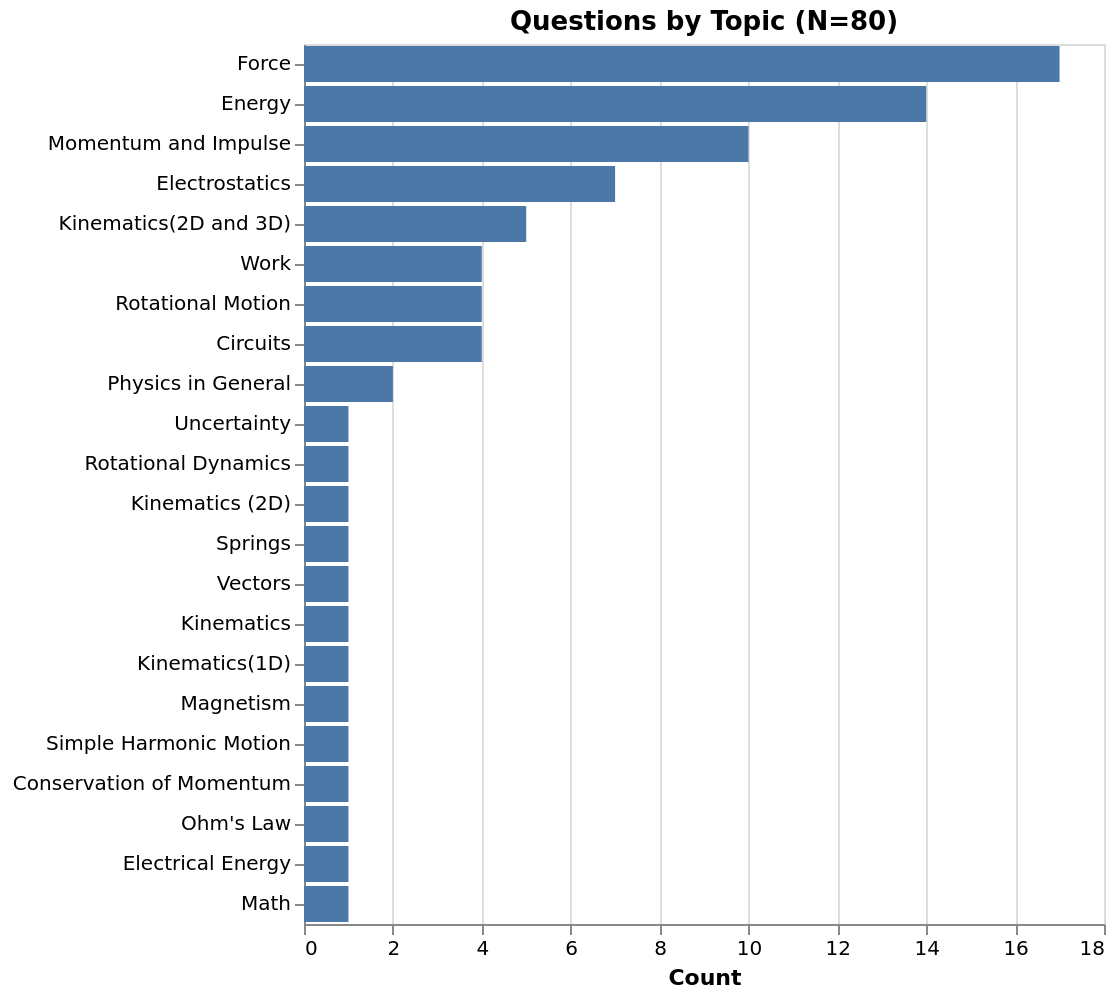
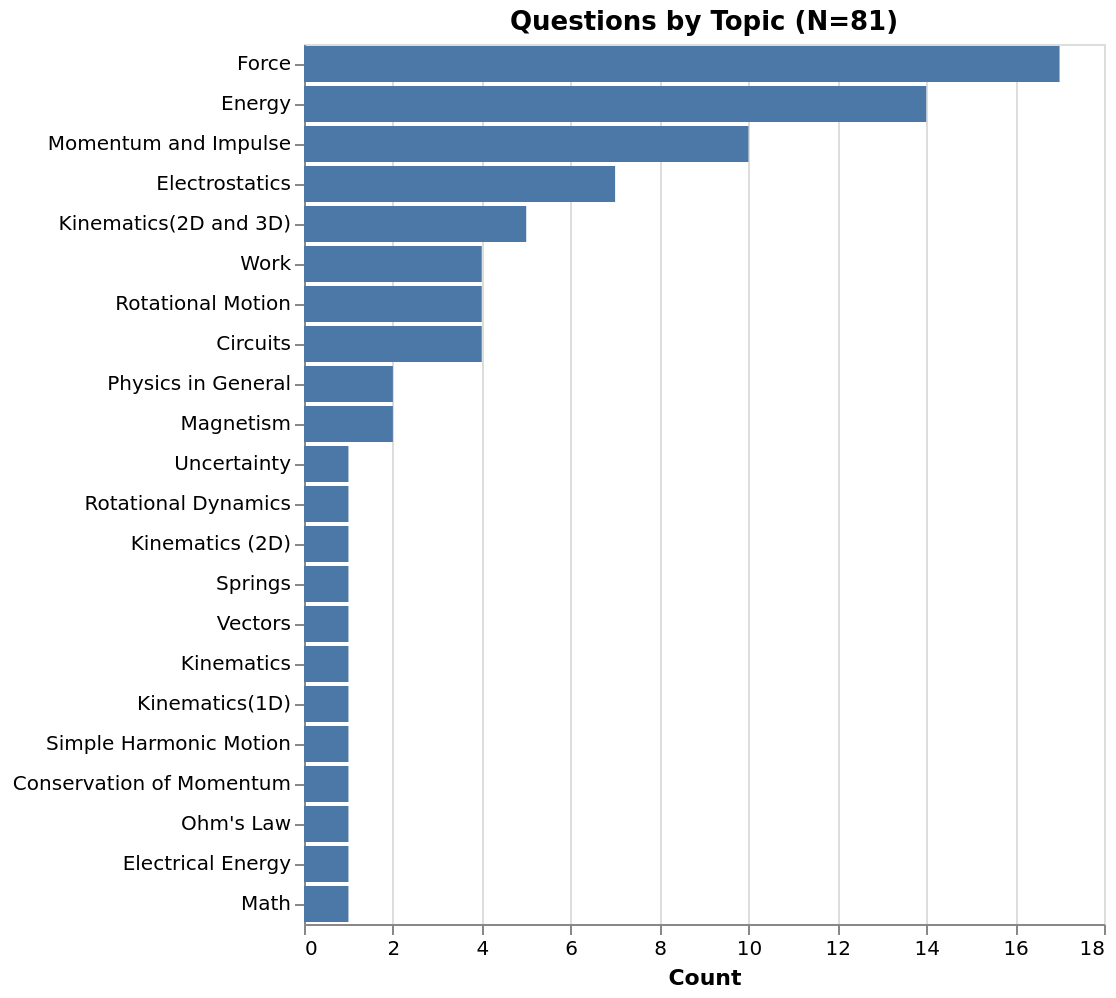
Update TOC via GH Action

diff --git a/content/index.md b/content/index.md
@@ -1,0 +1,86 @@
+# Question Index 
+ 
+ 
+ | Question | Public HTML | Public MD | Instructor MD | PL |
+| --------- | --------- | --------- | --------- | --------- |
+1 |  [Q 1](https://firas.moosvi.com/oer/physicsbank/content/content/public/002.Physics%20in%20General/Topic%20Outcome/Skateboarder%20and%20observer/Skateboarder%20and%20observer.html)| [Q 1](https://github.com/open-resources/physics_bank/blob/main/content/content/public/002.Physics%20in%20General/Topic%20Outcome/Skateboarder%20and%20observer/Skateboarder%20and%20observer.md) | [Q 1](https://github.com/open-resources/instructor_physics_bank/blob/main/output/content/instructor/002.Physics%20in%20General/Topic%20Outcome/Skateboarder%20and%20observer/Skateboarder%20and%20observer.md) | [TBD]() | 
+2 |  [Q 2](https://firas.moosvi.com/oer/physicsbank/content/content/public/002.Physics%20in%20General/Topic%20Outcome/test/test.html)| [Q 2](https://github.com/open-resources/physics_bank/blob/main/content/content/public/002.Physics%20in%20General/Topic%20Outcome/test/test.md) | [Q 2](https://github.com/open-resources/instructor_physics_bank/blob/main/output/content/instructor/002.Physics%20in%20General/Topic%20Outcome/test/test.md) | [TBD]() | 
+3 |  [Q 3](https://firas.moosvi.com/oer/physicsbank/content/content/public/002.Physics%20in%20General/Topic%20Outcome/Choose%20correct%20ans/choose%20correct%20ans.html)| [Q 3](https://github.com/open-resources/physics_bank/blob/main/content/content/public/002.Physics%20in%20General/Topic%20Outcome/Choose%20correct%20ans/choose%20correct%20ans.md) | [Q 3](https://github.com/open-resources/instructor_physics_bank/blob/main/output/content/instructor/002.Physics%20in%20General/Topic%20Outcome/Choose%20correct%20ans/choose%20correct%20ans.md) | [TBD]() | 
+4 |  [Q 4](https://firas.moosvi.com/oer/physicsbank/content/content/public/002.Physics%20in%20General/Uncertainty/Terminal%20Velocity%20of%20Coffee%20Filter/Terminal%20Velocity%20of%20Coffee%20Filter.html)| [Q 4](https://github.com/open-resources/physics_bank/blob/main/content/content/public/002.Physics%20in%20General/Uncertainty/Terminal%20Velocity%20of%20Coffee%20Filter/Terminal%20Velocity%20of%20Coffee%20Filter.md) | [Q 4](https://github.com/open-resources/instructor_physics_bank/blob/main/output/content/instructor/002.Physics%20in%20General/Uncertainty/Terminal%20Velocity%20of%20Coffee%20Filter/Terminal%20Velocity%20of%20Coffee%20Filter.md) | [TBD]() | 
+5 |  [Q 5](https://firas.moosvi.com/oer/physicsbank/content/content/public/002.Physics%20in%20General/Uncertainty/projectile_uncertainty/projectile_uncertainty.html)| [Q 5](https://github.com/open-resources/physics_bank/blob/main/content/content/public/002.Physics%20in%20General/Uncertainty/projectile_uncertainty/projectile_uncertainty.md) | [Q 5](https://github.com/open-resources/instructor_physics_bank/blob/main/output/content/instructor/002.Physics%20in%20General/Uncertainty/projectile_uncertainty/projectile_uncertainty.md) | [TBD]() | 
+6 |  [Q 6](https://firas.moosvi.com/oer/physicsbank/content/content/public/008.Energy/Kinetic%20Energy/KE_testmass/KE_testmass.html)| [Q 6](https://github.com/open-resources/physics_bank/blob/main/content/content/public/008.Energy/Kinetic%20Energy/KE_testmass/KE_testmass.md) | [Q 6](https://github.com/open-resources/instructor_physics_bank/blob/main/output/content/instructor/008.Energy/Kinetic%20Energy/KE_testmass/KE_testmass.md) | [TBD]() | 
+7 |  [Q 7](https://firas.moosvi.com/oer/physicsbank/content/content/public/008.Energy/Kinetic%20Energy/KE_energy_momentum/KE_energy_momentum.html)| [Q 7](https://github.com/open-resources/physics_bank/blob/main/content/content/public/008.Energy/Kinetic%20Energy/KE_energy_momentum/KE_energy_momentum.md) | [Q 7](https://github.com/open-resources/instructor_physics_bank/blob/main/output/content/instructor/008.Energy/Kinetic%20Energy/KE_energy_momentum/KE_energy_momentum.md) | [TBD]() | 
+8 |  [Q 8](https://firas.moosvi.com/oer/physicsbank/content/content/public/008.Energy/Potential%20Energy/Collision%20of%20cart%20with%20spring/Collision%20of%20cart%20with%20spring.html)| [Q 8](https://github.com/open-resources/physics_bank/blob/main/content/content/public/008.Energy/Potential%20Energy/Collision%20of%20cart%20with%20spring/Collision%20of%20cart%20with%20spring.md) | [Q 8](https://github.com/open-resources/instructor_physics_bank/blob/main/output/content/instructor/008.Energy/Potential%20Energy/Collision%20of%20cart%20with%20spring/Collision%20of%20cart%20with%20spring.md) | [TBD]() | 
+9 |  [Q 9](https://firas.moosvi.com/oer/physicsbank/content/content/public/008.Energy/Topic%20Outcome/force_vs_position/force_vs_position.html)| [Q 9](https://github.com/open-resources/physics_bank/blob/main/content/content/public/008.Energy/Topic%20Outcome/force_vs_position/force_vs_position.md) | [Q 9](https://github.com/open-resources/instructor_physics_bank/blob/main/output/content/instructor/008.Energy/Topic%20Outcome/force_vs_position/force_vs_position.md) | [TBD]() | 
+10 |  [Q 10](https://firas.moosvi.com/oer/physicsbank/content/content/public/008.Energy/Topic%20Outcome/frictionless_track/frictionless_track.html)| [Q 10](https://github.com/open-resources/physics_bank/blob/main/content/content/public/008.Energy/Topic%20Outcome/frictionless_track/frictionless_track.md) | [Q 10](https://github.com/open-resources/instructor_physics_bank/blob/main/output/content/instructor/008.Energy/Topic%20Outcome/frictionless_track/frictionless_track.md) | [TBD]() | 
+11 |  [Q 11](https://firas.moosvi.com/oer/physicsbank/content/content/public/008.Energy/Topic%20Outcome/spring_oscillations/spring_oscillations.html)| [Q 11](https://github.com/open-resources/physics_bank/blob/main/content/content/public/008.Energy/Topic%20Outcome/spring_oscillations/spring_oscillations.md) | [Q 11](https://github.com/open-resources/instructor_physics_bank/blob/main/output/content/instructor/008.Energy/Topic%20Outcome/spring_oscillations/spring_oscillations.md) | [TBD]() | 
+12 |  [Q 12](https://firas.moosvi.com/oer/physicsbank/content/content/public/008.Energy/Conservation%20of%20Energy/dissipative_process/dissipative_process.html)| [Q 12](https://github.com/open-resources/physics_bank/blob/main/content/content/public/008.Energy/Conservation%20of%20Energy/dissipative_process/dissipative_process.md) | [Q 12](https://github.com/open-resources/instructor_physics_bank/blob/main/output/content/instructor/008.Energy/Conservation%20of%20Energy/dissipative_process/dissipative_process.md) | [TBD]() | 
+13 |  [Q 13](https://firas.moosvi.com/oer/physicsbank/content/content/public/008.Energy/Conservation%20of%20Energy/Energy%20lost%20to%20air%20friction/energy_lost_air_friction.html)| [Q 13](https://github.com/open-resources/physics_bank/blob/main/content/content/public/008.Energy/Conservation%20of%20Energy/Energy%20lost%20to%20air%20friction/energy_lost_air_friction.md) | [Q 13](https://github.com/open-resources/instructor_physics_bank/blob/main/output/content/instructor/008.Energy/Conservation%20of%20Energy/Energy%20lost%20to%20air%20friction/energy_lost_air_friction.md) | [TBD]() | 
+14 |  [Q 14](https://firas.moosvi.com/oer/physicsbank/content/content/public/008.Energy/Conservation%20of%20Energy/ball_race/2012Final_q3.html)| [Q 14](https://github.com/open-resources/physics_bank/blob/main/content/content/public/008.Energy/Conservation%20of%20Energy/ball_race/2012Final_q3.md) | [Q 14](https://github.com/open-resources/instructor_physics_bank/blob/main/output/content/instructor/008.Energy/Conservation%20of%20Energy/ball_race/2012Final_q3.md) | [TBD]() | 
+15 |  [Q 15](https://firas.moosvi.com/oer/physicsbank/content/content/public/008.Energy/Conservation%20of%20Energy/Physics%20of%20Roller%20Coasters/Physics%20of%20Roller%20Coasters.html)| [Q 15](https://github.com/open-resources/physics_bank/blob/main/content/content/public/008.Energy/Conservation%20of%20Energy/Physics%20of%20Roller%20Coasters/Physics%20of%20Roller%20Coasters.md) | [Q 15](https://github.com/open-resources/instructor_physics_bank/blob/main/output/content/instructor/008.Energy/Conservation%20of%20Energy/Physics%20of%20Roller%20Coasters/Physics%20of%20Roller%20Coasters.md) | [TBD]() | 
+16 |  [Q 16](https://firas.moosvi.com/oer/physicsbank/content/content/public/008.Energy/Conservation%20of%20Energy/Cut%20The%20Rope/Cut%20The%20Rope.html)| [Q 16](https://github.com/open-resources/physics_bank/blob/main/content/content/public/008.Energy/Conservation%20of%20Energy/Cut%20The%20Rope/Cut%20The%20Rope.md) | [Q 16](https://github.com/open-resources/instructor_physics_bank/blob/main/output/content/instructor/008.Energy/Conservation%20of%20Energy/Cut%20The%20Rope/Cut%20The%20Rope.md) | [TBD]() | 
+17 |  [Q 17](https://firas.moosvi.com/oer/physicsbank/content/content/public/008.Energy/Conservation%20of%20Energy/Falling%20bucket/Falling%20bucket.html)| [Q 17](https://github.com/open-resources/physics_bank/blob/main/content/content/public/008.Energy/Conservation%20of%20Energy/Falling%20bucket/Falling%20bucket.md) | [Q 17](https://github.com/open-resources/instructor_physics_bank/blob/main/output/content/instructor/008.Energy/Conservation%20of%20Energy/Falling%20bucket/Falling%20bucket.md) | [TBD]() | 
+18 |  [Q 18](https://firas.moosvi.com/oer/physicsbank/content/content/public/008.Energy/Exploding_Asteroid/Exploding_Asteroid.html)| [Q 18](https://github.com/open-resources/physics_bank/blob/main/content/content/public/008.Energy/Exploding_Asteroid/Exploding_Asteroid.md) | [Q 18](https://github.com/open-resources/instructor_physics_bank/blob/main/output/content/instructor/008.Energy/Exploding_Asteroid/Exploding_Asteroid.md) | [TBD]() | 
+19 |  [Q 19](https://firas.moosvi.com/oer/physicsbank/content/content/public/011.Rotational%20Dynamics/Topic%20Outcome/thread_on_spool/thread_on_spool.html)| [Q 19](https://github.com/open-resources/physics_bank/blob/main/content/content/public/011.Rotational%20Dynamics/Topic%20Outcome/thread_on_spool/thread_on_spool.md) | [Q 19](https://github.com/open-resources/instructor_physics_bank/blob/main/output/content/instructor/011.Rotational%20Dynamics/Topic%20Outcome/thread_on_spool/thread_on_spool.md) | [TBD]() | 
+20 |  [Q 20](https://firas.moosvi.com/oer/physicsbank/content/content/public/005.Force/Topic%20Outcome/Frictionless%20Air%20Track/Frictionless%20Air%20Track.html)| [Q 20](https://github.com/open-resources/physics_bank/blob/main/content/content/public/005.Force/Topic%20Outcome/Frictionless%20Air%20Track/Frictionless%20Air%20Track.md) | [Q 20](https://github.com/open-resources/instructor_physics_bank/blob/main/output/content/instructor/005.Force/Topic%20Outcome/Frictionless%20Air%20Track/Frictionless%20Air%20Track.md) | [TBD]() | 
+21 |  [Q 21](https://firas.moosvi.com/oer/physicsbank/content/content/public/009.Work/Work-Energy%20Theorem/work_frictionless_surface/work_frictionless_surface.html)| [Q 21](https://github.com/open-resources/physics_bank/blob/main/content/content/public/009.Work/Work-Energy%20Theorem/work_frictionless_surface/work_frictionless_surface.md) | [Q 21](https://github.com/open-resources/instructor_physics_bank/blob/main/output/content/instructor/009.Work/Work-Energy%20Theorem/work_frictionless_surface/work_frictionless_surface.md) | [TBD]() | 
+22 |  [Q 22](https://firas.moosvi.com/oer/physicsbank/content/content/public/009.Work/Power/Energy%20Expenditure/Energy%20Expenditure.html)| [Q 22](https://github.com/open-resources/physics_bank/blob/main/content/content/public/009.Work/Power/Energy%20Expenditure/Energy%20Expenditure.md) | [Q 22](https://github.com/open-resources/instructor_physics_bank/blob/main/output/content/instructor/009.Work/Power/Energy%20Expenditure/Energy%20Expenditure.md) | [TBD]() | 
+23 |  [Q 23](https://firas.moosvi.com/oer/physicsbank/content/content/public/009.Work/Work/force_and_displacement/force_and_displacement.html)| [Q 23](https://github.com/open-resources/physics_bank/blob/main/content/content/public/009.Work/Work/force_and_displacement/force_and_displacement.md) | [Q 23](https://github.com/open-resources/instructor_physics_bank/blob/main/output/content/instructor/009.Work/Work/force_and_displacement/force_and_displacement.md) | [TBD]() | 
+24 |  [Q 24](https://firas.moosvi.com/oer/physicsbank/content/content/public/005.Kinematics%282D%20and%203D%29/Relative%20Motion/apples_in_truck/apples_in_truck.html)| [Q 24](https://github.com/open-resources/physics_bank/blob/main/content/content/public/005.Kinematics%282D%20and%203D%29/Relative%20Motion/apples_in_truck/apples_in_truck.md) | [Q 24](https://github.com/open-resources/instructor_physics_bank/blob/main/output/content/instructor/005.Kinematics%282D%20and%203D%29/Relative%20Motion/apples_in_truck/apples_in_truck.md) | [TBD]() | 
+25 |  [Q 25](https://firas.moosvi.com/oer/physicsbank/content/content/public/005.Kinematics%282D%20and%203D%29/Non-Uniform%20Circular%20Motion/Acceleration%20around%20a%20turn/Acceleration%20around%20a%20turn.html)| [Q 25](https://github.com/open-resources/physics_bank/blob/main/content/content/public/005.Kinematics%282D%20and%203D%29/Non-Uniform%20Circular%20Motion/Acceleration%20around%20a%20turn/Acceleration%20around%20a%20turn.md) | [Q 25](https://github.com/open-resources/instructor_physics_bank/blob/main/output/content/instructor/005.Kinematics%282D%20and%203D%29/Non-Uniform%20Circular%20Motion/Acceleration%20around%20a%20turn/Acceleration%20around%20a%20turn.md) | [TBD]() | 
+26 |  [Q 26](https://firas.moosvi.com/oer/physicsbank/content/content/public/005.Kinematics%282D%20and%203D%29/Non-Uniform%20Circular%20Motion/Turning_Car/Turning_car.html)| [Q 26](https://github.com/open-resources/physics_bank/blob/main/content/content/public/005.Kinematics%282D%20and%203D%29/Non-Uniform%20Circular%20Motion/Turning_Car/Turning_car.md) | [Q 26](https://github.com/open-resources/instructor_physics_bank/blob/main/output/content/instructor/005.Kinematics%282D%20and%203D%29/Non-Uniform%20Circular%20Motion/Turning_Car/Turning_car.md) | [TBD]() | 
+27 |  [Q 27](https://firas.moosvi.com/oer/physicsbank/content/content/public/005.Kinematics%282D%20and%203D%29/Projectile%20Motion/ski_jump/ski_jump.html)| [Q 27](https://github.com/open-resources/physics_bank/blob/main/content/content/public/005.Kinematics%282D%20and%203D%29/Projectile%20Motion/ski_jump/ski_jump.md) | [Q 27](https://github.com/open-resources/instructor_physics_bank/blob/main/output/content/instructor/005.Kinematics%282D%20and%203D%29/Projectile%20Motion/ski_jump/ski_jump.md) | [TBD]() | 
+28 |  [Q 28](https://firas.moosvi.com/oer/physicsbank/content/content/public/005.Kinematics%282D%20and%203D%29/Uniform%20Circular%20Motion/centripetal_force/centripetal_force.html)| [Q 28](https://github.com/open-resources/physics_bank/blob/main/content/content/public/005.Kinematics%282D%20and%203D%29/Uniform%20Circular%20Motion/centripetal_force/centripetal_force.md) | [Q 28](https://github.com/open-resources/instructor_physics_bank/blob/main/output/content/instructor/005.Kinematics%282D%20and%203D%29/Uniform%20Circular%20Motion/centripetal_force/centripetal_force.md) | [TBD]() | 
+29 |  [Q 29](https://firas.moosvi.com/oer/physicsbank/content/content/public/005.Kinematics%282D%20and%203D%29/Uniform%20Circular%20Motion/angular_speed/angular_speed.html)| [Q 29](https://github.com/open-resources/physics_bank/blob/main/content/content/public/005.Kinematics%282D%20and%203D%29/Uniform%20Circular%20Motion/angular_speed/angular_speed.md) | [Q 29](https://github.com/open-resources/instructor_physics_bank/blob/main/output/content/instructor/005.Kinematics%282D%20and%203D%29/Uniform%20Circular%20Motion/angular_speed/angular_speed.md) | [TBD]() | 
+30 |  [Q 30](https://firas.moosvi.com/oer/physicsbank/content/content/public/014.Elasticity/Topic%20Outcome/Identical%20Mass-Springs%20with%20different%20Displacement/Identical%20Mass-Springs%20with%20different%20Displacement.html)| [Q 30](https://github.com/open-resources/physics_bank/blob/main/content/content/public/014.Elasticity/Topic%20Outcome/Identical%20Mass-Springs%20with%20different%20Displacement/Identical%20Mass-Springs%20with%20different%20Displacement.md) | [Q 30](https://github.com/open-resources/instructor_physics_bank/blob/main/output/content/instructor/014.Elasticity/Topic%20Outcome/Identical%20Mass-Springs%20with%20different%20Displacement/Identical%20Mass-Springs%20with%20different%20Displacement.md) | [TBD]() | 
+31 |  [Q 31](https://firas.moosvi.com/oer/physicsbank/content/content/public/018.Electrostatics/Electric%20Field/Accelerating%20electrons/Accelerating%20electrons.html)| [Q 31](https://github.com/open-resources/physics_bank/blob/main/content/content/public/018.Electrostatics/Electric%20Field/Accelerating%20electrons/Accelerating%20electrons.md) | [Q 31](https://github.com/open-resources/instructor_physics_bank/blob/main/output/content/instructor/018.Electrostatics/Electric%20Field/Accelerating%20electrons/Accelerating%20electrons.md) | [TBD]() | 
+32 |  [Q 32](https://firas.moosvi.com/oer/physicsbank/content/content/public/018.Electrostatics/Electric%20Potential/Electric%20potential%20of%20parallel%20plates/Electric%20potential%20of%20parallel%20plates.html)| [Q 32](https://github.com/open-resources/physics_bank/blob/main/content/content/public/018.Electrostatics/Electric%20Potential/Electric%20potential%20of%20parallel%20plates/Electric%20potential%20of%20parallel%20plates.md) | [Q 32](https://github.com/open-resources/instructor_physics_bank/blob/main/output/content/instructor/018.Electrostatics/Electric%20Potential/Electric%20potential%20of%20parallel%20plates/Electric%20potential%20of%20parallel%20plates.md) | [TBD]() | 
+33 |  [Q 33](https://firas.moosvi.com/oer/physicsbank/content/content/public/018.Electrostatics/Electric%20Potential/Electric%20potential%20energy%20of%20a%20cube/Electric%20potential%20energy%20of%20a%20cube.html)| [Q 33](https://github.com/open-resources/physics_bank/blob/main/content/content/public/018.Electrostatics/Electric%20Potential/Electric%20potential%20energy%20of%20a%20cube/Electric%20potential%20energy%20of%20a%20cube.md) | [Q 33](https://github.com/open-resources/instructor_physics_bank/blob/main/output/content/instructor/018.Electrostatics/Electric%20Potential/Electric%20potential%20energy%20of%20a%20cube/Electric%20potential%20energy%20of%20a%20cube.md) | [TBD]() | 
+34 |  [Q 34](https://firas.moosvi.com/oer/physicsbank/content/content/public/018.Electrostatics/Electric%20Potential/Particle%20between%20charged%20plates/Particle%20between%20charged%20plates.html)| [Q 34](https://github.com/open-resources/physics_bank/blob/main/content/content/public/018.Electrostatics/Electric%20Potential/Particle%20between%20charged%20plates/Particle%20between%20charged%20plates.md) | [Q 34](https://github.com/open-resources/instructor_physics_bank/blob/main/output/content/instructor/018.Electrostatics/Electric%20Potential/Particle%20between%20charged%20plates/Particle%20between%20charged%20plates.md) | [TBD]() | 
+35 |  [Q 35](https://firas.moosvi.com/oer/physicsbank/content/content/public/018.Electrostatics/Electric%20Potential/test/Potential%20of%20a%20conducting%20pipe.html)| [Q 35](https://github.com/open-resources/physics_bank/blob/main/content/content/public/018.Electrostatics/Electric%20Potential/test/Potential%20of%20a%20conducting%20pipe.md) | [Q 35](https://github.com/open-resources/instructor_physics_bank/blob/main/output/content/instructor/018.Electrostatics/Electric%20Potential/test/Potential%20of%20a%20conducting%20pipe.md) | [TBD]() | 
+36 |  [Q 36](https://firas.moosvi.com/oer/physicsbank/content/content/public/018.Electrostatics/Electric%20Potential/Potential%20of%20a%20conducting%20pipe/Potential%20of%20a%20conducting%20pipe.html)| [Q 36](https://github.com/open-resources/physics_bank/blob/main/content/content/public/018.Electrostatics/Electric%20Potential/Potential%20of%20a%20conducting%20pipe/Potential%20of%20a%20conducting%20pipe.md) | [Q 36](https://github.com/open-resources/instructor_physics_bank/blob/main/output/content/instructor/018.Electrostatics/Electric%20Potential/Potential%20of%20a%20conducting%20pipe/Potential%20of%20a%20conducting%20pipe.md) | [TBD]() | 
+37 |  [Q 37](https://firas.moosvi.com/oer/physicsbank/content/content/public/003.Vectors/Topic%20Outcome/Choose_all_Vectors_Scalars/Choose_all_Vectors_Scalars.html)| [Q 37](https://github.com/open-resources/physics_bank/blob/main/content/content/public/003.Vectors/Topic%20Outcome/Choose_all_Vectors_Scalars/Choose_all_Vectors_Scalars.md) | [Q 37](https://github.com/open-resources/instructor_physics_bank/blob/main/output/content/instructor/003.Vectors/Topic%20Outcome/Choose_all_Vectors_Scalars/Choose_all_Vectors_Scalars.md) | [TBD]() | 
+38 |  [Q 38](https://firas.moosvi.com/oer/physicsbank/content/content/public/004.Kinematics%281D%29/Position/distance_travelled/distance_travelled.html)| [Q 38](https://github.com/open-resources/physics_bank/blob/main/content/content/public/004.Kinematics%281D%29/Position/distance_travelled/distance_travelled.md) | [Q 38](https://github.com/open-resources/instructor_physics_bank/blob/main/output/content/instructor/004.Kinematics%281D%29/Position/distance_travelled/distance_travelled.md) | [TBD]() | 
+39 |  [Q 39](https://firas.moosvi.com/oer/physicsbank/content/content/public/004.Kinematics%281D%29/Motion%20Diagrams/Running_Dog/Running_Dog.html)| [Q 39](https://github.com/open-resources/physics_bank/blob/main/content/content/public/004.Kinematics%281D%29/Motion%20Diagrams/Running_Dog/Running_Dog.md) | [Q 39](https://github.com/open-resources/instructor_physics_bank/blob/main/output/content/instructor/004.Kinematics%281D%29/Motion%20Diagrams/Running_Dog/Running_Dog.md) | [TBD]() | 
+40 |  [Q 40](https://firas.moosvi.com/oer/physicsbank/content/content/public/010.Rotational%20Motion/Rotational%20Energy/Inertia%20of%20T-shaped%20rod/Inertia%20of%20T-shaped%20rod.html)| [Q 40](https://github.com/open-resources/physics_bank/blob/main/content/content/public/010.Rotational%20Motion/Rotational%20Energy/Inertia%20of%20T-shaped%20rod/Inertia%20of%20T-shaped%20rod.md) | [Q 40](https://github.com/open-resources/instructor_physics_bank/blob/main/output/content/instructor/010.Rotational%20Motion/Rotational%20Energy/Inertia%20of%20T-shaped%20rod/Inertia%20of%20T-shaped%20rod.md) | [TBD]() | 
+41 |  [Q 41](https://firas.moosvi.com/oer/physicsbank/content/content/public/010.Rotational%20Motion/Rolling%20Motion/Rolling_without_slipping/Rolling_without_slipping.html)| [Q 41](https://github.com/open-resources/physics_bank/blob/main/content/content/public/010.Rotational%20Motion/Rolling%20Motion/Rolling_without_slipping/Rolling_without_slipping.md) | [Q 41](https://github.com/open-resources/instructor_physics_bank/blob/main/output/content/instructor/010.Rotational%20Motion/Rolling%20Motion/Rolling_without_slipping/Rolling_without_slipping.md) | [TBD]() | 
+42 |  [Q 42](https://firas.moosvi.com/oer/physicsbank/content/content/public/010.Rotational%20Motion/Topic%20Outcome/Wheel_of_fortune/Wheel_of_fortune.html)| [Q 42](https://github.com/open-resources/physics_bank/blob/main/content/content/public/010.Rotational%20Motion/Topic%20Outcome/Wheel_of_fortune/Wheel_of_fortune.md) | [Q 42](https://github.com/open-resources/instructor_physics_bank/blob/main/output/content/instructor/010.Rotational%20Motion/Topic%20Outcome/Wheel_of_fortune/Wheel_of_fortune.md) | [TBD]() | 
+43 |  [Q 43](https://firas.moosvi.com/oer/physicsbank/content/content/public/010.Rotational%20Motion/Topic%20Outcome/Rotational%20Displacement%20of%20Tires/Rotational%20Displacement%20of%20tires.html)| [Q 43](https://github.com/open-resources/physics_bank/blob/main/content/content/public/010.Rotational%20Motion/Topic%20Outcome/Rotational%20Displacement%20of%20Tires/Rotational%20Displacement%20of%20tires.md) | [Q 43](https://github.com/open-resources/instructor_physics_bank/blob/main/output/content/instructor/010.Rotational%20Motion/Topic%20Outcome/Rotational%20Displacement%20of%20Tires/Rotational%20Displacement%20of%20tires.md) | [TBD]() | 
+44 |  [Q 44](https://firas.moosvi.com/oer/physicsbank/content/content/public/019.Magnetism/Magnetic%20Force/Current%20through%20a%20spring/Current%20through%20a%20spring.html)| [Q 44](https://github.com/open-resources/physics_bank/blob/main/content/content/public/019.Magnetism/Magnetic%20Force/Current%20through%20a%20spring/Current%20through%20a%20spring.md) | [Q 44](https://github.com/open-resources/instructor_physics_bank/blob/main/output/content/instructor/019.Magnetism/Magnetic%20Force/Current%20through%20a%20spring/Current%20through%20a%20spring.md) | [TBD]() | 
+45 |  [Q 45](https://firas.moosvi.com/oer/physicsbank/content/content/public/019.Magnetism/Magnetic%20Force/Electron%20in%20a%20Solenoid/Electron%20in%20a%20Solenoid.html)| [Q 45](https://github.com/open-resources/physics_bank/blob/main/content/content/public/019.Magnetism/Magnetic%20Force/Electron%20in%20a%20Solenoid/Electron%20in%20a%20Solenoid.md) | [Q 45](https://github.com/open-resources/instructor_physics_bank/blob/main/output/content/instructor/019.Magnetism/Magnetic%20Force/Electron%20in%20a%20Solenoid/Electron%20in%20a%20Solenoid.md) | [TBD]() | 
+46 |  [Q 46](https://firas.moosvi.com/oer/physicsbank/content/content/public/006.Force/Friction/Frictional%20Force%20between%20tires%20and%20road/Frictional%20Force%20between%20tires%20and%20road.html)| [Q 46](https://github.com/open-resources/physics_bank/blob/main/content/content/public/006.Force/Friction/Frictional%20Force%20between%20tires%20and%20road/Frictional%20Force%20between%20tires%20and%20road.md) | [Q 46](https://github.com/open-resources/instructor_physics_bank/blob/main/output/content/instructor/006.Force/Friction/Frictional%20Force%20between%20tires%20and%20road/Frictional%20Force%20between%20tires%20and%20road.md) | [TBD]() | 
+47 |  [Q 47](https://firas.moosvi.com/oer/physicsbank/content/content/public/006.Force/Friction/box_in_vehicle/box_in_vehicle.html)| [Q 47](https://github.com/open-resources/physics_bank/blob/main/content/content/public/006.Force/Friction/box_in_vehicle/box_in_vehicle.md) | [Q 47](https://github.com/open-resources/instructor_physics_bank/blob/main/output/content/instructor/006.Force/Friction/box_in_vehicle/box_in_vehicle.md) | [TBD]() | 
+48 |  [Q 48](https://firas.moosvi.com/oer/physicsbank/content/content/public/006.Force/Friction/spring_on_ramp/spring_on_ramp.html)| [Q 48](https://github.com/open-resources/physics_bank/blob/main/content/content/public/006.Force/Friction/spring_on_ramp/spring_on_ramp.md) | [Q 48](https://github.com/open-resources/instructor_physics_bank/blob/main/output/content/instructor/006.Force/Friction/spring_on_ramp/spring_on_ramp.md) | [TBD]() | 
+49 |  [Q 49](https://firas.moosvi.com/oer/physicsbank/content/content/public/006.Force/Friction/box_in_truck_bed_2/box_in_truck_bed_2.html)| [Q 49](https://github.com/open-resources/physics_bank/blob/main/content/content/public/006.Force/Friction/box_in_truck_bed_2/box_in_truck_bed_2.md) | [Q 49](https://github.com/open-resources/instructor_physics_bank/blob/main/output/content/instructor/006.Force/Friction/box_in_truck_bed_2/box_in_truck_bed_2.md) | [TBD]() | 
+50 |  [Q 50](https://firas.moosvi.com/oer/physicsbank/content/content/public/006.Force/Dynamics%20of%20Circular%20Motion/object_on_string/object_on_string.html)| [Q 50](https://github.com/open-resources/physics_bank/blob/main/content/content/public/006.Force/Dynamics%20of%20Circular%20Motion/object_on_string/object_on_string.md) | [Q 50](https://github.com/open-resources/instructor_physics_bank/blob/main/output/content/instructor/006.Force/Dynamics%20of%20Circular%20Motion/object_on_string/object_on_string.md) | [TBD]() | 
+51 |  [Q 51](https://firas.moosvi.com/oer/physicsbank/content/content/public/006.Force/Topic%20Outcome/The%20max%20acceleration%20without%20slipping/The%20max%20acceleration%20without%20slipping.html)| [Q 51](https://github.com/open-resources/physics_bank/blob/main/content/content/public/006.Force/Topic%20Outcome/The%20max%20acceleration%20without%20slipping/The%20max%20acceleration%20without%20slipping.md) | [Q 51](https://github.com/open-resources/instructor_physics_bank/blob/main/output/content/instructor/006.Force/Topic%20Outcome/The%20max%20acceleration%20without%20slipping/The%20max%20acceleration%20without%20slipping.md) | [TBD]() | 
+52 |  [Q 52](https://firas.moosvi.com/oer/physicsbank/content/content/public/006.Force/Topic%20Outcome/Frictionless%20Air%20Track/Frictionless%20Air%20Track.html)| [Q 52](https://github.com/open-resources/physics_bank/blob/main/content/content/public/006.Force/Topic%20Outcome/Frictionless%20Air%20Track/Frictionless%20Air%20Track.md) | [Q 52](https://github.com/open-resources/instructor_physics_bank/blob/main/output/content/instructor/006.Force/Topic%20Outcome/Frictionless%20Air%20Track/Frictionless%20Air%20Track.md) | [TBD]() | 
+53 |  [Q 53](https://firas.moosvi.com/oer/physicsbank/content/content/public/006.Force/Topic%20Outcome/ropes_and_blocks/ropes_and_blocks.html)| [Q 53](https://github.com/open-resources/physics_bank/blob/main/content/content/public/006.Force/Topic%20Outcome/ropes_and_blocks/ropes_and_blocks.md) | [Q 53](https://github.com/open-resources/instructor_physics_bank/blob/main/output/content/instructor/006.Force/Topic%20Outcome/ropes_and_blocks/ropes_and_blocks.md) | [TBD]() | 
+54 |  [Q 54](https://firas.moosvi.com/oer/physicsbank/content/content/public/006.Force/Topic%20Outcome/Rotating%20ball/Rotating%20ball.html)| [Q 54](https://github.com/open-resources/physics_bank/blob/main/content/content/public/006.Force/Topic%20Outcome/Rotating%20ball/Rotating%20ball.md) | [Q 54](https://github.com/open-resources/instructor_physics_bank/blob/main/output/content/instructor/006.Force/Topic%20Outcome/Rotating%20ball/Rotating%20ball.md) | [TBD]() | 
+55 |  [Q 55](https://firas.moosvi.com/oer/physicsbank/content/content/public/006.Force/Topic%20Outcome/velocity_netforce/velocity_netforce.html)| [Q 55](https://github.com/open-resources/physics_bank/blob/main/content/content/public/006.Force/Topic%20Outcome/velocity_netforce/velocity_netforce.md) | [Q 55](https://github.com/open-resources/instructor_physics_bank/blob/main/output/content/instructor/006.Force/Topic%20Outcome/velocity_netforce/velocity_netforce.md) | [TBD]() | 
+56 |  [Q 56](https://firas.moosvi.com/oer/physicsbank/content/content/public/006.Force/Topic%20Outcome/Elevator%20Movement%20Direction/Elevator%20Movement%20Direction.html)| [Q 56](https://github.com/open-resources/physics_bank/blob/main/content/content/public/006.Force/Topic%20Outcome/Elevator%20Movement%20Direction/Elevator%20Movement%20Direction.md) | [Q 56](https://github.com/open-resources/instructor_physics_bank/blob/main/output/content/instructor/006.Force/Topic%20Outcome/Elevator%20Movement%20Direction/Elevator%20Movement%20Direction.md) | [TBD]() | 
+57 |  [Q 57](https://firas.moosvi.com/oer/physicsbank/content/content/public/006.Force/Topic%20Outcome/spring_on_incline/spring_on_incline.html)| [Q 57](https://github.com/open-resources/physics_bank/blob/main/content/content/public/006.Force/Topic%20Outcome/spring_on_incline/spring_on_incline.md) | [Q 57](https://github.com/open-resources/instructor_physics_bank/blob/main/output/content/instructor/006.Force/Topic%20Outcome/spring_on_incline/spring_on_incline.md) | [TBD]() | 
+58 |  [Q 58](https://firas.moosvi.com/oer/physicsbank/content/content/public/006.Force/Equilibrium/Two%20blocks%20connected%20by%20a%20string/Two%20Blocks%20Connected%20by%20a%20String.html)| [Q 58](https://github.com/open-resources/physics_bank/blob/main/content/content/public/006.Force/Equilibrium/Two%20blocks%20connected%20by%20a%20string/Two%20Blocks%20Connected%20by%20a%20String.md) | [Q 58](https://github.com/open-resources/instructor_physics_bank/blob/main/output/content/instructor/006.Force/Equilibrium/Two%20blocks%20connected%20by%20a%20string/Two%20Blocks%20Connected%20by%20a%20String.md) | [TBD]() | 
+59 |  [Q 59](https://firas.moosvi.com/oer/physicsbank/content/content/public/006.Force/Free%20Body%20Diagrams/pulley_on_truck/pulley_on_truck.html)| [Q 59](https://github.com/open-resources/physics_bank/blob/main/content/content/public/006.Force/Free%20Body%20Diagrams/pulley_on_truck/pulley_on_truck.md) | [Q 59](https://github.com/open-resources/instructor_physics_bank/blob/main/output/content/instructor/006.Force/Free%20Body%20Diagrams/pulley_on_truck/pulley_on_truck.md) | [TBD]() | 
+60 |  [Q 60](https://firas.moosvi.com/oer/physicsbank/content/content/public/006.Force/Newton%27s%20Third%20Law/Force%20Vectors/force_vectors.html)| [Q 60](https://github.com/open-resources/physics_bank/blob/main/content/content/public/006.Force/Newton%27s%20Third%20Law/Force%20Vectors/force_vectors.md) | [Q 60](https://github.com/open-resources/instructor_physics_bank/blob/main/output/content/instructor/006.Force/Newton%27s%20Third%20Law/Force%20Vectors/force_vectors.md) | [TBD]() | 
+61 |  [Q 61](https://firas.moosvi.com/oer/physicsbank/content/content/public/006.Force/Springs/Bungee_jumping/bungee_jumping.html)| [Q 61](https://github.com/open-resources/physics_bank/blob/main/content/content/public/006.Force/Springs/Bungee_jumping/bungee_jumping.md) | [Q 61](https://github.com/open-resources/instructor_physics_bank/blob/main/output/content/instructor/006.Force/Springs/Bungee_jumping/bungee_jumping.md) | [TBD]() | 
+62 |  [Q 62](https://firas.moosvi.com/oer/physicsbank/content/content/public/007.Momentum%20and%20Impulse/Impulse/Bouncing_Ball/Bouncing_Ball.html)| [Q 62](https://github.com/open-resources/physics_bank/blob/main/content/content/public/007.Momentum%20and%20Impulse/Impulse/Bouncing_Ball/Bouncing_Ball.md) | [Q 62](https://github.com/open-resources/instructor_physics_bank/blob/main/output/content/instructor/007.Momentum%20and%20Impulse/Impulse/Bouncing_Ball/Bouncing_Ball.md) | [TBD]() | 
+63 |  [Q 63](https://firas.moosvi.com/oer/physicsbank/content/content/public/007.Momentum%20and%20Impulse/Impulse/airbag_collision/airbag_collision.html)| [Q 63](https://github.com/open-resources/physics_bank/blob/main/content/content/public/007.Momentum%20and%20Impulse/Impulse/airbag_collision/airbag_collision.md) | [Q 63](https://github.com/open-resources/instructor_physics_bank/blob/main/output/content/instructor/007.Momentum%20and%20Impulse/Impulse/airbag_collision/airbag_collision.md) | [TBD]() | 
+64 |  [Q 64](https://firas.moosvi.com/oer/physicsbank/content/content/public/007.Momentum%20and%20Impulse/2D%20Collisions/light_heavy_collision/light_heavy_collision.html)| [Q 64](https://github.com/open-resources/physics_bank/blob/main/content/content/public/007.Momentum%20and%20Impulse/2D%20Collisions/light_heavy_collision/light_heavy_collision.md) | [Q 64](https://github.com/open-resources/instructor_physics_bank/blob/main/output/content/instructor/007.Momentum%20and%20Impulse/2D%20Collisions/light_heavy_collision/light_heavy_collision.md) | [TBD]() | 
+65 |  [Q 65](https://firas.moosvi.com/oer/physicsbank/content/content/public/007.Momentum%20and%20Impulse/2D%20Collisions/billiards_collision/billiards_collision.html)| [Q 65](https://github.com/open-resources/physics_bank/blob/main/content/content/public/007.Momentum%20and%20Impulse/2D%20Collisions/billiards_collision/billiards_collision.md) | [Q 65](https://github.com/open-resources/instructor_physics_bank/blob/main/output/content/instructor/007.Momentum%20and%20Impulse/2D%20Collisions/billiards_collision/billiards_collision.md) | [TBD]() | 
+66 |  [Q 66](https://firas.moosvi.com/oer/physicsbank/content/content/public/007.Momentum%20and%20Impulse/Conservation%20of%20Momentum/System_Open_or_Closed/System_Open_or_Closed.html)| [Q 66](https://github.com/open-resources/physics_bank/blob/main/content/content/public/007.Momentum%20and%20Impulse/Conservation%20of%20Momentum/System_Open_or_Closed/System_Open_or_Closed.md) | [Q 66](https://github.com/open-resources/instructor_physics_bank/blob/main/output/content/instructor/007.Momentum%20and%20Impulse/Conservation%20of%20Momentum/System_Open_or_Closed/System_Open_or_Closed.md) | [TBD]() | 
+67 |  [Q 67](https://firas.moosvi.com/oer/physicsbank/content/content/public/007.Momentum%20and%20Impulse/Conservation%20of%20Momentum/mass_spring_collision/mass_spring_collision.html)| [Q 67](https://github.com/open-resources/physics_bank/blob/main/content/content/public/007.Momentum%20and%20Impulse/Conservation%20of%20Momentum/mass_spring_collision/mass_spring_collision.md) | [Q 67](https://github.com/open-resources/instructor_physics_bank/blob/main/output/content/instructor/007.Momentum%20and%20Impulse/Conservation%20of%20Momentum/mass_spring_collision/mass_spring_collision.md) | [TBD]() | 
+68 |  [Q 68](https://firas.moosvi.com/oer/physicsbank/content/content/public/007.Momentum%20and%20Impulse/Conservation%20of%20Momentum/Explosions_and_Velocity/Explosions_and_Velocity.html)| [Q 68](https://github.com/open-resources/physics_bank/blob/main/content/content/public/007.Momentum%20and%20Impulse/Conservation%20of%20Momentum/Explosions_and_Velocity/Explosions_and_Velocity.md) | [Q 68](https://github.com/open-resources/instructor_physics_bank/blob/main/output/content/instructor/007.Momentum%20and%20Impulse/Conservation%20of%20Momentum/Explosions_and_Velocity/Explosions_and_Velocity.md) | [TBD]() | 
+69 |  [Q 69](https://firas.moosvi.com/oer/physicsbank/content/content/public/007.Momentum%20and%20Impulse/Conservation%20of%20Momentum/Raindrops_Collision/raindrops_collision.html)| [Q 69](https://github.com/open-resources/physics_bank/blob/main/content/content/public/007.Momentum%20and%20Impulse/Conservation%20of%20Momentum/Raindrops_Collision/raindrops_collision.md) | [Q 69](https://github.com/open-resources/instructor_physics_bank/blob/main/output/content/instructor/007.Momentum%20and%20Impulse/Conservation%20of%20Momentum/Raindrops_Collision/raindrops_collision.md) | [TBD]() | 
+70 |  [Q 70](https://firas.moosvi.com/oer/physicsbank/content/content/public/007.Momentum%20and%20Impulse/Conservation%20of%20Momentum/Isolated_systems/Isolated_systems.html)| [Q 70](https://github.com/open-resources/physics_bank/blob/main/content/content/public/007.Momentum%20and%20Impulse/Conservation%20of%20Momentum/Isolated_systems/Isolated_systems.md) | [Q 70](https://github.com/open-resources/instructor_physics_bank/blob/main/output/content/instructor/007.Momentum%20and%20Impulse/Conservation%20of%20Momentum/Isolated_systems/Isolated_systems.md) | [TBD]() | 
+71 |  [Q 71](https://firas.moosvi.com/oer/physicsbank/content/content/public/007.Momentum%20and%20Impulse/Momentum/Momentum_and_Inertia/Momentum_and_Inertia.html)| [Q 71](https://github.com/open-resources/physics_bank/blob/main/content/content/public/007.Momentum%20and%20Impulse/Momentum/Momentum_and_Inertia/Momentum_and_Inertia.md) | [Q 71](https://github.com/open-resources/instructor_physics_bank/blob/main/output/content/instructor/007.Momentum%20and%20Impulse/Momentum/Momentum_and_Inertia/Momentum_and_Inertia.md) | [TBD]() | 
+72 |  [Q 72](https://firas.moosvi.com/oer/physicsbank/content/content/public/007.Momentum%20and%20Impulse/Momentum/Rock_Powered_Rocket/Rock_Powered_Rocket.html)| [Q 72](https://github.com/open-resources/physics_bank/blob/main/content/content/public/007.Momentum%20and%20Impulse/Momentum/Rock_Powered_Rocket/Rock_Powered_Rocket.md) | [Q 72](https://github.com/open-resources/instructor_physics_bank/blob/main/output/content/instructor/007.Momentum%20and%20Impulse/Momentum/Rock_Powered_Rocket/Rock_Powered_Rocket.md) | [TBD]() | 
+73 |  [Q 73](https://firas.moosvi.com/oer/physicsbank/content/content/public/007.Momentum%20and%20Impulse/Momentum/Dinner_Plate/dinner_plate.html)| [Q 73](https://github.com/open-resources/physics_bank/blob/main/content/content/public/007.Momentum%20and%20Impulse/Momentum/Dinner_Plate/dinner_plate.md) | [Q 73](https://github.com/open-resources/instructor_physics_bank/blob/main/output/content/instructor/007.Momentum%20and%20Impulse/Momentum/Dinner_Plate/dinner_plate.md) | [TBD]() | 
+74 |  [Q 74](https://firas.moosvi.com/oer/physicsbank/content/content/public/021.Circuits/RC%20Circuits/OSUPv2p10_16/OSUPv2p10_16.html)| [Q 74](https://github.com/open-resources/physics_bank/blob/main/content/content/public/021.Circuits/RC%20Circuits/OSUPv2p10_16/OSUPv2p10_16.md) | [Q 74](https://github.com/open-resources/instructor_physics_bank/blob/main/output/content/instructor/021.Circuits/RC%20Circuits/OSUPv2p10_16/OSUPv2p10_16.md) | [TBD]() | 
+75 |  [Q 75](https://firas.moosvi.com/oer/physicsbank/content/content/public/021.Circuits/Resistance/OSUPv2p10_02/OSUPv2p10_02.html)| [Q 75](https://github.com/open-resources/physics_bank/blob/main/content/content/public/021.Circuits/Resistance/OSUPv2p10_02/OSUPv2p10_02.md) | [Q 75](https://github.com/open-resources/instructor_physics_bank/blob/main/output/content/instructor/021.Circuits/Resistance/OSUPv2p10_02/OSUPv2p10_02.md) | [TBD]() | 
+76 |  [Q 76](https://firas.moosvi.com/oer/physicsbank/content/content/public/021.Circuits/Ohm%27s%20Law/OSUPv2.9.13/OSUPv2.9.13.html)| [Q 76](https://github.com/open-resources/physics_bank/blob/main/content/content/public/021.Circuits/Ohm%27s%20Law/OSUPv2.9.13/OSUPv2.9.13.md) | [Q 76](https://github.com/open-resources/instructor_physics_bank/blob/main/output/content/instructor/021.Circuits/Ohm%27s%20Law/OSUPv2.9.13/OSUPv2.9.13.md) | [TBD]() | 
+77 |  [Q 77](https://firas.moosvi.com/oer/physicsbank/content/content/public/021.Circuits/Electrical%20Energy/OSUPv2.9.16/OSUPv2.9.16.html)| [Q 77](https://github.com/open-resources/physics_bank/blob/main/content/content/public/021.Circuits/Electrical%20Energy/OSUPv2.9.16/OSUPv2.9.16.md) | [Q 77](https://github.com/open-resources/instructor_physics_bank/blob/main/output/content/instructor/021.Circuits/Electrical%20Energy/OSUPv2.9.16/OSUPv2.9.16.md) | [TBD]() | 
+78 |  [Q 78](https://firas.moosvi.com/oer/physicsbank/content/content/public/021.Circuits/Capacitors/OSUPv2p8_23/OSUPv2p8_23.html)| [Q 78](https://github.com/open-resources/physics_bank/blob/main/content/content/public/021.Circuits/Capacitors/OSUPv2p8_23/OSUPv2p8_23.md) | [Q 78](https://github.com/open-resources/instructor_physics_bank/blob/main/output/content/instructor/021.Circuits/Capacitors/OSUPv2p8_23/OSUPv2p8_23.md) | [TBD]() | 
+79 |  [Q 79](https://firas.moosvi.com/oer/physicsbank/content/content/public/021.Circuits/Capacitors/OSUPv2p8_19/OSUPv2p8_19.html)| [Q 79](https://github.com/open-resources/physics_bank/blob/main/content/content/public/021.Circuits/Capacitors/OSUPv2p8_19/OSUPv2p8_19.md) | [Q 79](https://github.com/open-resources/instructor_physics_bank/blob/main/output/content/instructor/021.Circuits/Capacitors/OSUPv2p8_19/OSUPv2p8_19.md) | [TBD]() | 
+80 |  [Q 80](https://firas.moosvi.com/oer/physicsbank/content/content/public/021.Circuits/Current/OSUPv2.9.2/OSUPv2.9.2.html)| [Q 80](https://github.com/open-resources/physics_bank/blob/main/content/content/public/021.Circuits/Current/OSUPv2.9.2/OSUPv2.9.2.md) | [Q 80](https://github.com/open-resources/instructor_physics_bank/blob/main/output/content/instructor/021.Circuits/Current/OSUPv2.9.2/OSUPv2.9.2.md) | [TBD]() | 
+81 |  [Q 81](https://firas.moosvi.com/oer/physicsbank/content/content/public/001.Math/Integrals/Rocket/Rocket.html)| [Q 81](https://github.com/open-resources/physics_bank/blob/main/content/content/public/001.Math/Integrals/Rocket/Rocket.md) | [Q 81](https://github.com/open-resources/instructor_physics_bank/blob/main/output/content/instructor/001.Math/Integrals/Rocket/Rocket.md) | [TBD]() | 
